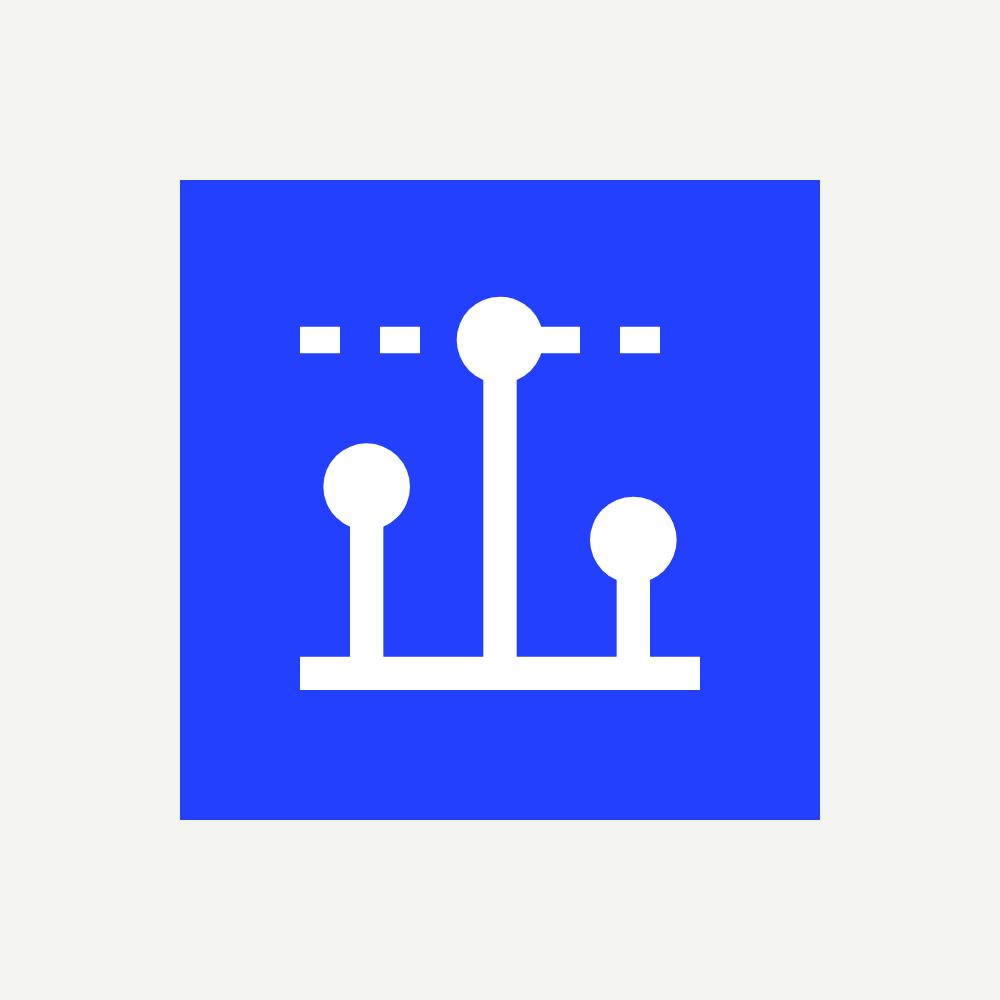
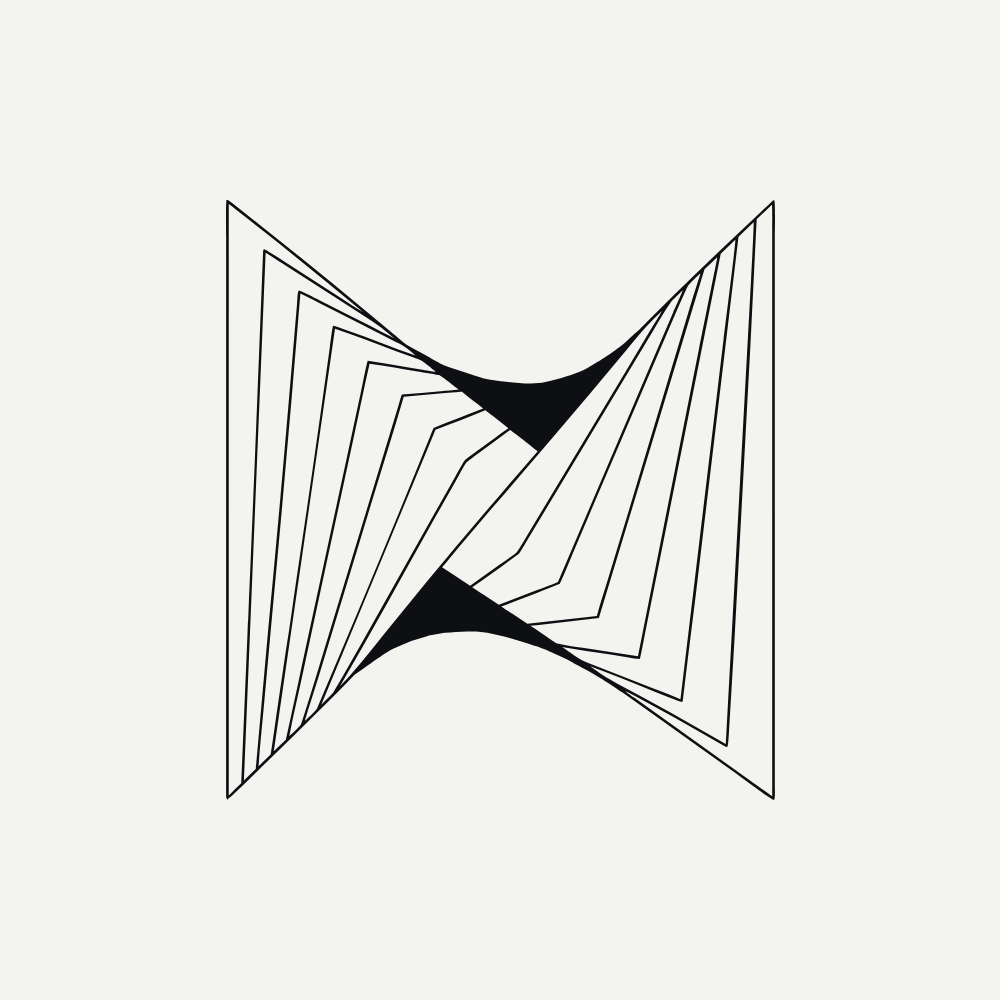
feat(web): new N mark across site and brand assets

diff --git a/web/components/nPath.ts b/web/components/nPath.ts
@@ -1,0 +1,3 @@
+// The Nyquist402 mark: a line-drawn N. viewBox 0 0 1842 2013.
+export const N_PATH =
+  "M1.80905 0.0300286C3.73402 -0.0355119 6.28037 -0.0950727 7.8822 1.02233C19.8145 9.34947 32.4235 19.5973 43.8219 28.5427L126.111 93.5047C242.309 185.548 357.348 279.047 471.2 373.979L562.964 450.349C572.914 458.566 601.177 482.958 610.285 488.277C630.644 500.165 656.429 513.645 677.477 525.105C687.683 530.661 720.311 550.117 728.723 553.18C758.321 563.953 790.867 574.337 820.976 584.32C833.881 588.598 858.954 597.067 869.901 599.37C891.992 603.462 917.635 607.383 939.868 609.718C978.558 613.781 1033.17 620.077 1071.66 610.932C1097.74 604.731 1114.84 600.312 1140.68 592.189C1160.31 586.018 1176.89 579.574 1196.44 571.975C1214.78 563.827 1241.94 544.839 1258.84 535.842C1268.3 530.802 1308.03 502.607 1318.47 494.964C1344.47 475.922 1361.42 455.531 1386.39 435.303C1391.86 430.867 1412.32 409.233 1419.46 402.092L1506.45 315.491C1614.25 209.624 1725.39 104.904 1835.29 1.24097C1836.66 -0.0548434 1838.54 0.876773 1839.95 1.33011C1843.51 11.7486 1841.36 111.25 1841.34 132.435L1841.37 1964.2C1841.45 1971.45 1843.2 2010.43 1838.63 2013C1824.2 2008.66 1730.56 1937.83 1710.41 1923.32L1442.4 1732.33L1330.52 1652.78C1308.54 1636.94 1276.73 1616.3 1253.87 1602.56C1212.18 1577.49 1184.11 1564.32 1141.78 1540.13C1134.9 1536.84 1055.14 1500.42 1041.29 1497.6C989.565 1480.37 1003.38 1485.43 951.286 1469.55C928.676 1462.65 901.049 1457.94 876.827 1452.3C859.306 1448.21 838.728 1447.33 808.893 1447.33C785.844 1448.48 757.214 1449 734.37 1452.3C720.397 1454.31 677.102 1462.39 677.102 1462.39L627.084 1478.01C627.084 1478.01 571.484 1499.19 545.89 1513.97C520.295 1528.76 428.787 1595.26 428.787 1595.26C428.787 1595.26 404.873 1620.46 398.189 1627.22C371.825 1654.05 345.28 1680.7 318.556 1707.17C255.355 1769.91 191.768 1832.26 127.795 1894.21C111.915 1909.68 15.7898 2006.47 4.96245 2011.16L3.0025 2010.14C0.511937 2004.74 0.375529 2001.48 0.323118 1995.54L0.43574 122.288C0.434648 108.192 -1.17823 8.45456 1.80905 0.0300286ZM1831.46 15.7252C1814.72 31.9021 1796.93 48.5058 1780.5 64.8575L1759.52 488.142L1715.88 1293.66C1709.88 1410.83 1703.21 1527.98 1695.87 1645.07L1688.82 1762.47C1688.18 1773.29 1685.96 1830.09 1682.68 1834.73C1678.93 1835.91 1675.79 1833.8 1671.81 1831.58C1646.31 1817.42 1621.12 1802.53 1595.7 1788.21C1536.96 1754.89 1477.93 1722.04 1418.63 1689.68L1369.3 1662.82C1361.9 1658.8 1347.29 1650.38 1339.95 1647.83C1343.14 1651.43 1362.6 1664.84 1367.99 1668.69L1433.75 1715.58L1832.65 2000.77L1832.59 92.3341C1832.6 81.641 1833.42 18.0534 1831.46 15.7252ZM9.27904 1997.78C23.1047 1984.06 37.0305 1970.44 51.0582 1956.93L71.8864 1460.99C72.5874 1444.4 72.9268 1419.98 74.5624 1404.07C76.3007 1355.82 78.3067 1307.59 80.5768 1259.36L96.1723 886.458L124.304 177.442C124.49 173.498 124.175 169.676 125.973 166.294L128.827 164.851C136.197 167.91 152.798 179.243 160.108 183.986C174.405 193.246 188.764 202.409 203.184 211.474L378.951 324.595C402.38 339.631 436.893 363.425 460.548 376.446C353.581 287.566 245.664 199.834 136.815 113.27L49.4529 44.3202C41.8137 38.312 16.0652 17.1473 9.30089 13.0258L9.27904 1997.78ZM60.0427 1947.97L99.751 1909.32L141.676 1439.95C165.888 1186.37 188.781 932.661 210.354 678.839L238.734 343.376C239.447 334.76 239.467 308.1 244.666 303.411C252.243 304.321 301.791 330.083 311.829 335.116C368.006 363.171 423.986 391.619 479.764 420.461C506.13 433.972 539.491 452.311 565.771 464.352C558.671 458.544 551.166 452.767 544.246 446.787C511.682 418.651 475.046 396.787 438.901 373.47L188.305 212.222C173.201 202.543 147.656 185.075 132.91 177.093L60.0427 1947.97ZM249.62 314.014C220.891 666.111 189.982 1018.03 156.895 1369.75L126.557 1703.48C120.818 1767.16 113.326 1836.16 109.394 1899.57L149.77 1860.46C157.207 1815.3 163.192 1768.33 169.869 1722.88L201.972 1504.93C214.986 1428.78 225.26 1345.75 236.846 1268.65C265.47 1078.99 293.063 889.195 319.623 699.247L348.617 492.367C349.868 483.454 356.559 428.563 358.842 423.619L361.069 422.123C375.96 425.574 392.181 432.988 406.824 438.011C483.2 464.205 559.119 496.168 635.615 521.62C619.327 507.995 603.288 493.062 584.283 483.45C571.308 476.888 558.362 470.203 545.414 463.582L453.606 416.638C407.413 392.736 361.025 369.212 314.448 346.069C295.243 336.489 268.967 322.41 249.62 314.014ZM160.414 1849.79C173.716 1836.87 187.316 1823.23 200.796 1810.56C218.326 1729.25 237.33 1646.34 253.849 1564.98L401.734 881.647L451.358 650.283C458.694 616.165 466.646 572.218 475.148 539.594C517.823 546.13 560.458 552.932 603.047 559.998C635.975 565.386 670.553 570.587 703.282 576.768C694.186 567.333 665.56 545.477 653.792 537.89C650.28 535.626 627.81 527.817 622.586 525.941L568.59 506.392C502.32 481.905 432.369 455.053 365.773 432.234L160.414 1849.79ZM1770.2 74.693C1754.53 89.7099 1735.43 109.147 1719.53 123.154L1601.93 1108.67C1585.94 1247.05 1569.12 1385.34 1551.46 1523.52C1545.07 1574.54 1539.49 1625.85 1532.99 1676.87C1532.41 1681.38 1532.74 1681.62 1530.22 1684.34C1518.66 1681.78 1502.86 1675 1491.46 1670.48L1436.45 1648.65C1366.36 1620.94 1292.2 1590.64 1221.64 1564.7C1254.39 1588.47 1274.85 1602.31 1310.27 1621.52C1433.56 1687.28 1555.73 1755.09 1676.75 1824.95L1762.07 259.257C1762.95 241.231 1771.81 78.2486 1770.2 74.693ZM481.746 549.287C461.962 635.787 443.454 726.915 424.818 813.952L336.735 1220.63L255.975 1595.78C241.752 1661.88 224.81 1732.83 212.374 1798.87C220.486 1791.27 245.917 1768.47 251.042 1759.73C253.438 1755.65 263.238 1723.44 265.533 1716.19C278.75 1674.46 291.739 1632.67 304.5 1590.81L579.498 686.586C582.353 677.085 586.51 661.455 589.864 652.573C633.545 648.545 677.249 644.775 720.975 641.264C739.504 639.719 763.191 638.425 781.339 636.02C766.797 624.892 731.781 596.519 717.862 588.39C714.109 586.199 656.002 577.097 648.111 575.926C593.38 567.804 536.445 556.38 481.746 549.287ZM791.843 643.708C789.637 643.838 783.743 644.02 781.861 644.324C721.023 649.386 656.868 654.188 596.282 660.32C562.916 774.535 526.185 891.06 491.399 1004.97L313.029 1592.08C297.431 1643.57 279.49 1696.39 264.442 1747.52C271.961 1741.09 300.917 1713.83 304.984 1706.5C438.478 1393.9 568.898 1080 696.226 764.828C749.869 742.298 808.358 720.986 862.91 699.364C840.106 681.689 813.858 662.136 791.843 643.708ZM869.901 705.115C816.58 728.047 757.261 749.244 702.895 770.919L319.697 1693.59C332.607 1680.68 347.184 1666.65 359.281 1653.18C392.363 1598.73 422.512 1543.83 454.001 1488.63L690.887 1067.08L768.243 930.226C774.559 918.993 793.821 882.827 800.022 874.763C803.664 870.027 843.072 841.56 850.441 836.441C881.987 814.521 915.736 786.915 947.467 765.882L893.673 723.405C890.248 720.692 872.65 706.562 869.901 705.115ZM1659.92 180.38L1466 1153.83L1412.21 1422.29C1404.71 1459.46 1397.29 1503.43 1388.67 1539.83C1377.13 1539.13 1362.46 1536.42 1350.67 1534.59L1290.12 1525.24C1237.32 1517.08 1179.79 1509.26 1127.62 1499.63C1149.92 1514.7 1189.48 1544.64 1213.33 1552.43L1410.48 1629.5C1446.65 1643.65 1489.49 1659.37 1524.8 1674.71L1669.53 466.704C1673.1 437.063 1710.8 140.941 1708.85 133.491L1659.92 180.38ZM953.312 771.461C919.214 796.736 884.98 821.83 850.616 846.743C843.247 852.146 809.79 876.086 806.6 880.508C795.938 895.291 780.158 926.122 770.883 942.782L701.862 1064.67C595.982 1252.59 491.506 1445.24 382.409 1631.18C397.259 1616.12 415.977 1597.17 428.941 1580.49C462.39 1541.19 492.89 1502.39 525.206 1462.39L668.738 1286.35C792.718 1137.06 918.403 989.197 1045.77 842.792C1035.26 834.634 957.426 772.642 953.312 771.461ZM1647.15 192.602C1633.1 205.804 1619.19 219.154 1605.42 232.652L1251.02 1402.68L1107.13 1419.16C1079.85 1422.21 1047.98 1426.65 1021.06 1428.62C1041.57 1441.86 1064.39 1456.81 1084.3 1470.91C1088.8 1473.87 1107.2 1486.98 1111.16 1487.89C1137.99 1494.02 1169.5 1498.18 1196.71 1502.45C1258.48 1512.25 1320.33 1521.67 1382.21 1530.72L1586.99 499.085C1602.79 420.089 1631.27 279.324 1648.12 194.331C1647.8 193.755 1647.48 193.179 1647.15 192.602ZM1591.08 246.23C1579.83 256.981 1559.62 275.017 1550.8 286.722C1548.29 290.046 1537.76 313.904 1535.21 319.61C1526.44 339.213 1517.81 358.873 1509.3 378.589L1431.72 558.814L1239 1008.29L1163.05 1186.75C1149.52 1218.67 1134.54 1256.59 1120.07 1287.78C1058.12 1313.68 986.607 1340.1 923.543 1363.59C935.958 1371.95 948.422 1380.25 960.935 1388.46C977.469 1399.54 994.874 1410.78 1011.22 1421.98L1244.31 1395.3C1254.56 1356.65 1269.16 1312.62 1280.95 1273.98L1348.84 1050.97L1552.43 373.311C1562.41 340.76 1580.19 282.885 1591.86 247.673C1591.61 247.191 1591.35 246.71 1591.08 246.23ZM1532.27 303.016C1525.46 309.702 1496.75 337.023 1492.47 343.075C1473.56 369.831 1454.19 403.352 1437.15 431.586L1329.85 610.932L1015.13 1133.91C1010.87 1141.05 985.688 1184.95 981.833 1187.76C931.592 1224.34 877.433 1264.89 826.117 1299.39C838.552 1307.45 850.915 1315.62 863.203 1323.9L915.358 1358.14L1041.79 1309.69C1063.31 1301.44 1092.89 1290.82 1113.69 1281.43L1436.1 526.761L1500.63 376.638C1504.34 368.148 1531.79 308.245 1532.27 303.016ZM1462.35 371.971C1453.13 381.006 1444.09 390.613 1434.81 399.476C1401.14 431.63 1372.72 468.232 1342.94 504.068L1222.35 648.493C1113.11 777.904 1003.01 906.569 892.029 1034.48L782.371 1163.54C764.75 1184.49 742.936 1212.3 724.865 1232.15C737.626 1240.41 750.808 1248.74 763.297 1257.34C781.534 1269.5 800.603 1282.61 819.011 1294.32L921.06 1221.55C930.648 1214.76 971.841 1186.8 976.276 1180.81C985.896 1167.81 1004.21 1135.89 1013.36 1120.51L1343.1 571.975L1414.58 452.008C1419.56 443.754 1461.28 377.023 1462.35 371.971Z";

diff --git a/web/components/Logo.tsx b/web/components/Logo.tsx
@@ -1,14 +1,16 @@
-// Mark: a sampled signal under a dashed ceiling. The ceiling is the authorized hold (max_amount);
-// the stems are captures, each at or below it. Sample-and-hold, the idea behind the name.
+import { N_PATH } from "./nPath";
+
+// Mark: a line-drawn N. Inherits the text color.
 export function Mark({ size = 28, className }: { size?: number; className?: string }) {
   return (
-    <svg width={size} height={size} viewBox="0 0 48 48" className={className} aria-hidden="true">
-      <rect width="48" height="48" fill="var(--accent, #2440FF)" />
-      <path d="M9 12H39" stroke="#fff" strokeWidth="2" strokeDasharray="3 3" />
-      <path d="M9 37H39M14 37V23M24 37V12M34 37V27" stroke="#fff" strokeWidth="2.5" />
-      <circle cx="14" cy="23" r="3.25" fill="#fff" />
-      <circle cx="24" cy="12" r="3.25" fill="#fff" />
-      <circle cx="34" cy="27" r="3.25" fill="#fff" />
+    <svg
+      height={size}
+      width={Math.round((size * 1842) / 2013)}
+      viewBox="0 0 1842 2013"
+      className={className}
+      aria-hidden="true"
+    >
+      <path d={N_PATH} fill="currentColor" fillRule="evenodd" clipRule="evenodd" />
     </svg>
   );
 }

diff --git a/web/app/landing.css b/web/app/landing.css
@@ -198,9 +198,7 @@
 .band { background: var(--accent); color: #fff; overflow: hidden; position: relative; }
 .band::before { content: ""; position: absolute; inset: 0; background-image: linear-gradient(90deg, #ffffff1f 1px, transparent 1px); background-size: 64px 100%; }
 .band-inner { position: relative; display: flex; flex-direction: column; align-items: center; text-align: center; gap: 32px; padding-top: clamp(80px, 10vw, 140px); padding-bottom: clamp(80px, 10vw, 140px); }
-.band-mark rect { fill: #fff; }
-.band-mark path { stroke: var(--accent); }
-.band-mark circle { fill: var(--accent); }
+.band-mark { color: #fff; }
 
 /* Resources */
 
